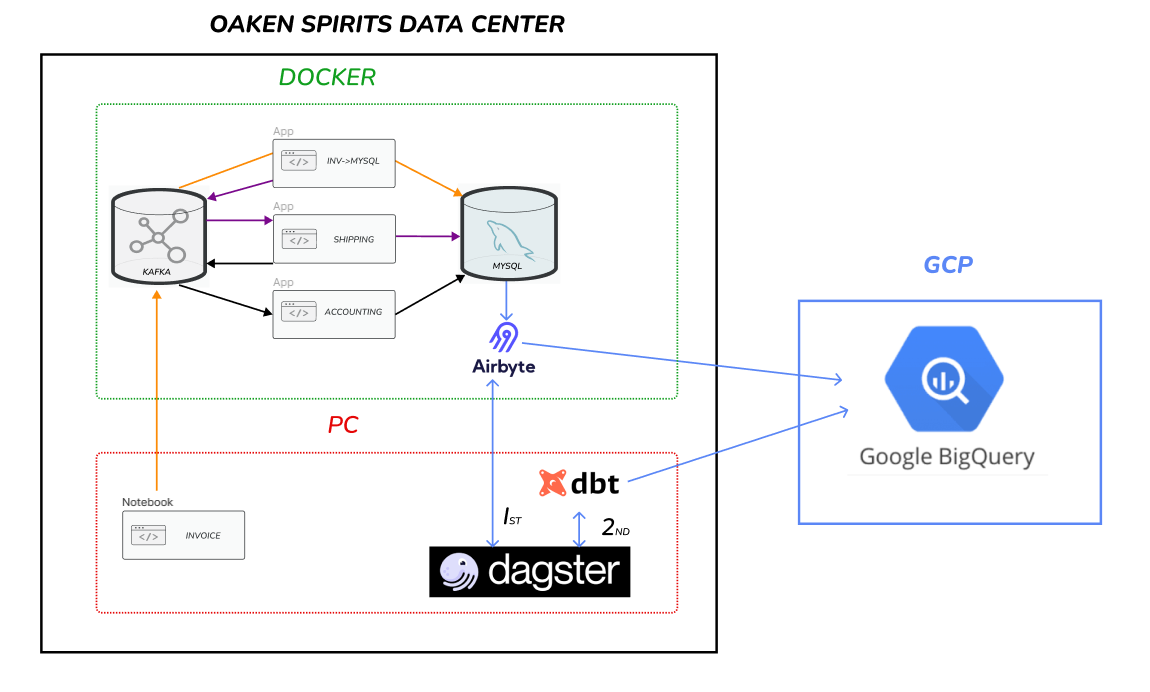
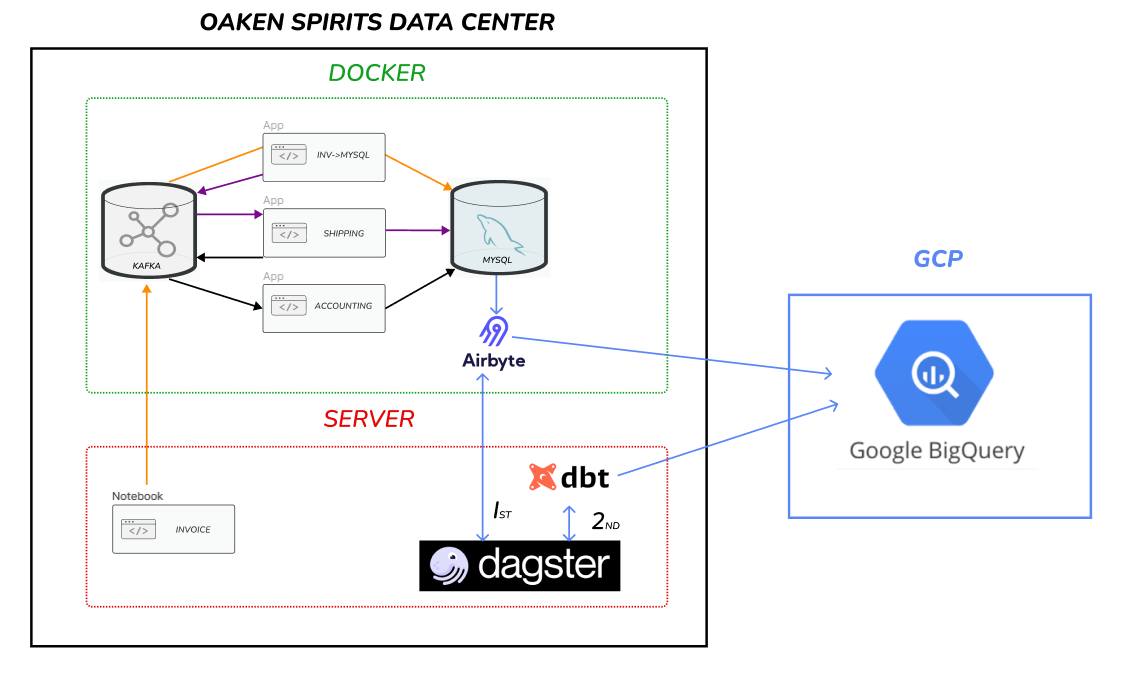
tech doc

diff --git a/OAKEN_AWS_TECHNICAL_DESIGN.md b/OAKEN_AWS_TECHNICAL_DESIGN.md
@@ -8,7 +8,7 @@ Oaken Spirits is looking to expand and the current application implementations a
 
 1. Create a scalable solution.
 1. Create a data pipeline that integrates the systems and provides real-time updates.
-1. Create a single database as the single source of truth (SSOT).
+1. Create a single database as the single source of truth.
 1. Provide an analytics solution for management.
 
 ## 3. Glossary
@@ -19,12 +19,16 @@ Oaken Spirits is looking to expand and the current application implementations a
 - **OLAP:** Online analytical processing.For data analytics.
 - **Apache Kafka:** A pub/sub message queue.
 - **Pub/sub message queue:** Publisher and subscriber message queue. Where a source publishes messages to a queue and a subscribers get those messages from the queue.
-- **ELT:** Extract, Load, Transform. The order of operations in a data transfer.
+- **ETL:** Extract, Transform, Load. The order of operations in a data transfer.
+- **SuperSet:** Data analytics and dashboard application.
+- **Airflow:** Application for scheduling and orchestration of data pipelines or workflows.
 - **Virtual Machine (VM):** a compute resource that uses software instead of a physical computer to run programs and deploy apps.
 
 ## 4. Out of Scope (Non-goals)
 
 1. Implementing new applications that are not required for the initially identified requirements.
+1. Implementation team is not the training team.
+    - Documentation provided, but IT support team trainers retain responsibility.
 
 ## 5. Assumptions
 
@@ -37,27 +41,29 @@ Oaken Spirits is looking to expand and the current application implementations a
 
 ### Overview
 
-1. Scalable: Docker provides an scalable service (within the confines of our data center). Internally accessed applications, from a small staff allow our local data center service these applications.
+1. Scalable: use of cloud services will allow scalability to a national level if desired.
+    - Virtual Machines (VM) allows auto scaling.
+        - Machines Images can be used for quick service recovery.
+        - Machine images can be imported into different cloud services.
+    - Cloud services have high uptime service agreements which reduces downtime and recovery as services grow.
 1. Service Integration:
     - Kafka Pub/sub Message queue to transfer data between services.
         - Apache Kafka can scale to over a 1 million messages a second.
-    - Custom API for invoice integration with MySQL.
-1. SSOT: Integrate into MySQL database for all data.
+    - API for invoice integration with MySQL.
+1. SSOT: Integrate into MySQL database for OLTP.
 1. Analytics:
-    - Data warehouse: Google BigQury
-    - Airbyte: Database snapshot used for extract and load to BigQuery
-
+    - Database snapshot used for ETL.
+    - Data extract to SuperSet.
+    - Automate with Airflow.
 
 ### Database
 
-#### Data Retention
+### Data Retention
 
 1. **OLTP database:** 2 years. Data beyond this point moved to a data warehouse.
-1. **Data Warehouse:** 10 years for audit requirements.
+1. **Data Warehouse:** At least 10 years for audit requirements.
 
 #### Data Types
-
-MySQL data types
 
 | Type | Storage(Bytes) | Minimum Value Signed | Minimum Value Unsigned | Maximum Value Signed | Maximum Value Unsigned |
 |:---| :---: | :---: | :---: | :---: | :---: |
@@ -69,33 +75,56 @@ MySQL data types
 
 ## 7. Security Considerations
 
-1. Exposed ports:
+1. For local machine IP:
     - All VMs SSH port 22.
-    - Kafka port 9092,9093,9094, 19092,19903,19904
+    - Kafka port 9092 (for Invoice application).
     - MySQL 33060.
-1. Sensitive data
-    - GCP service account `.json` file
-    - MySQL credentials
-    - Cloud Beaver credentials
-    - Customer personally identifiable data
-    - Business operational data
+1. For cloud resources:
+    - Kafka port 9092.
+    - MySQL 33060.
+1. Sensitive environment variables.
+    - AWS Systems Manager Parameter Store.
+1. Linux on each system to be updated on cycle with company policy.
 
 ## 8. Cost Analysis
 
-Oaken Spirits preference is budget conscious choices that will grow as the company grows rather than a system that can necessarily support future growth out of the box.
+Oaken Spirits is still a small company and preference is to budget conscious choices that will grow as the company grows rather than a system that can necessarily support future growth out of the box.
 
-Open source applications with in-house support are preferred over paid.
+Open source applications are preferred over paid with in-house support.
 
 ### Application Cost Estimate
 
-1. Continue to use legacy applications, no additional costs.
-1. Open source database and integration solutions, no additional costs.
-    - Monitor hardware usage for future need for expansion.
-1. Google Bigquery, see below.
+1. No additional cost. Continue to use legacy applications.
 
 ### Cloud Cost Estimate
 
+1. AWS Parameter Store
+    - Standard = Free
 
+#### AWS 3 year commitment
+
+1. Business applications virtual machines
+    - VM: m6i.large (business apps)
+        - Monthly: $44.43
+    - 10GB Block Storage
+        - Monthly $0.80
+    - Data transfer
+        - free
+    - 4 virtual machines total (business apps)
+        - $182.52 month
+        - $2190.24 year
+    - VM: r6i.xlarge (database)
+        - $ 95.96 month
+    - 10GB Block storage
+        - Monthly: $0.80  
+    - 2X Daily Snapshot
+        - Monthly: $2.80
+    - 1 virtual machine total (database)
+        - Monthly: $99.56
+        - Yearly: $1194.72
+    - TOTAL
+        - Monthly: $282.08
+        - Yearly: $3384.96
 
 ## 9. Cross-region Considerations
 

diff --git a/README.md b/README.md
@@ -30,9 +30,11 @@ Format: **Requirement**: My solution
 
 ##### Limitations
 
-> For grader reproducibility, some things were hard coded that normally would not be. Host names, secrets, etc. best practices would be to define these either in environment variables or in an encrypted manner.
-
-> Additionally, a single service account was created.
+> 1. For grader reproducibility, some things were hard coded that normally would not be. Host names, secrets, etc. best practices would be to define these either in environment variables or in an encrypted manner.
+>
+> 2. Additionally, a single service account was created.
+>
+> 3. Mardown written for GitHub Markdown, as such it may render better if read on GitHub.
 
 ## Overview
 
